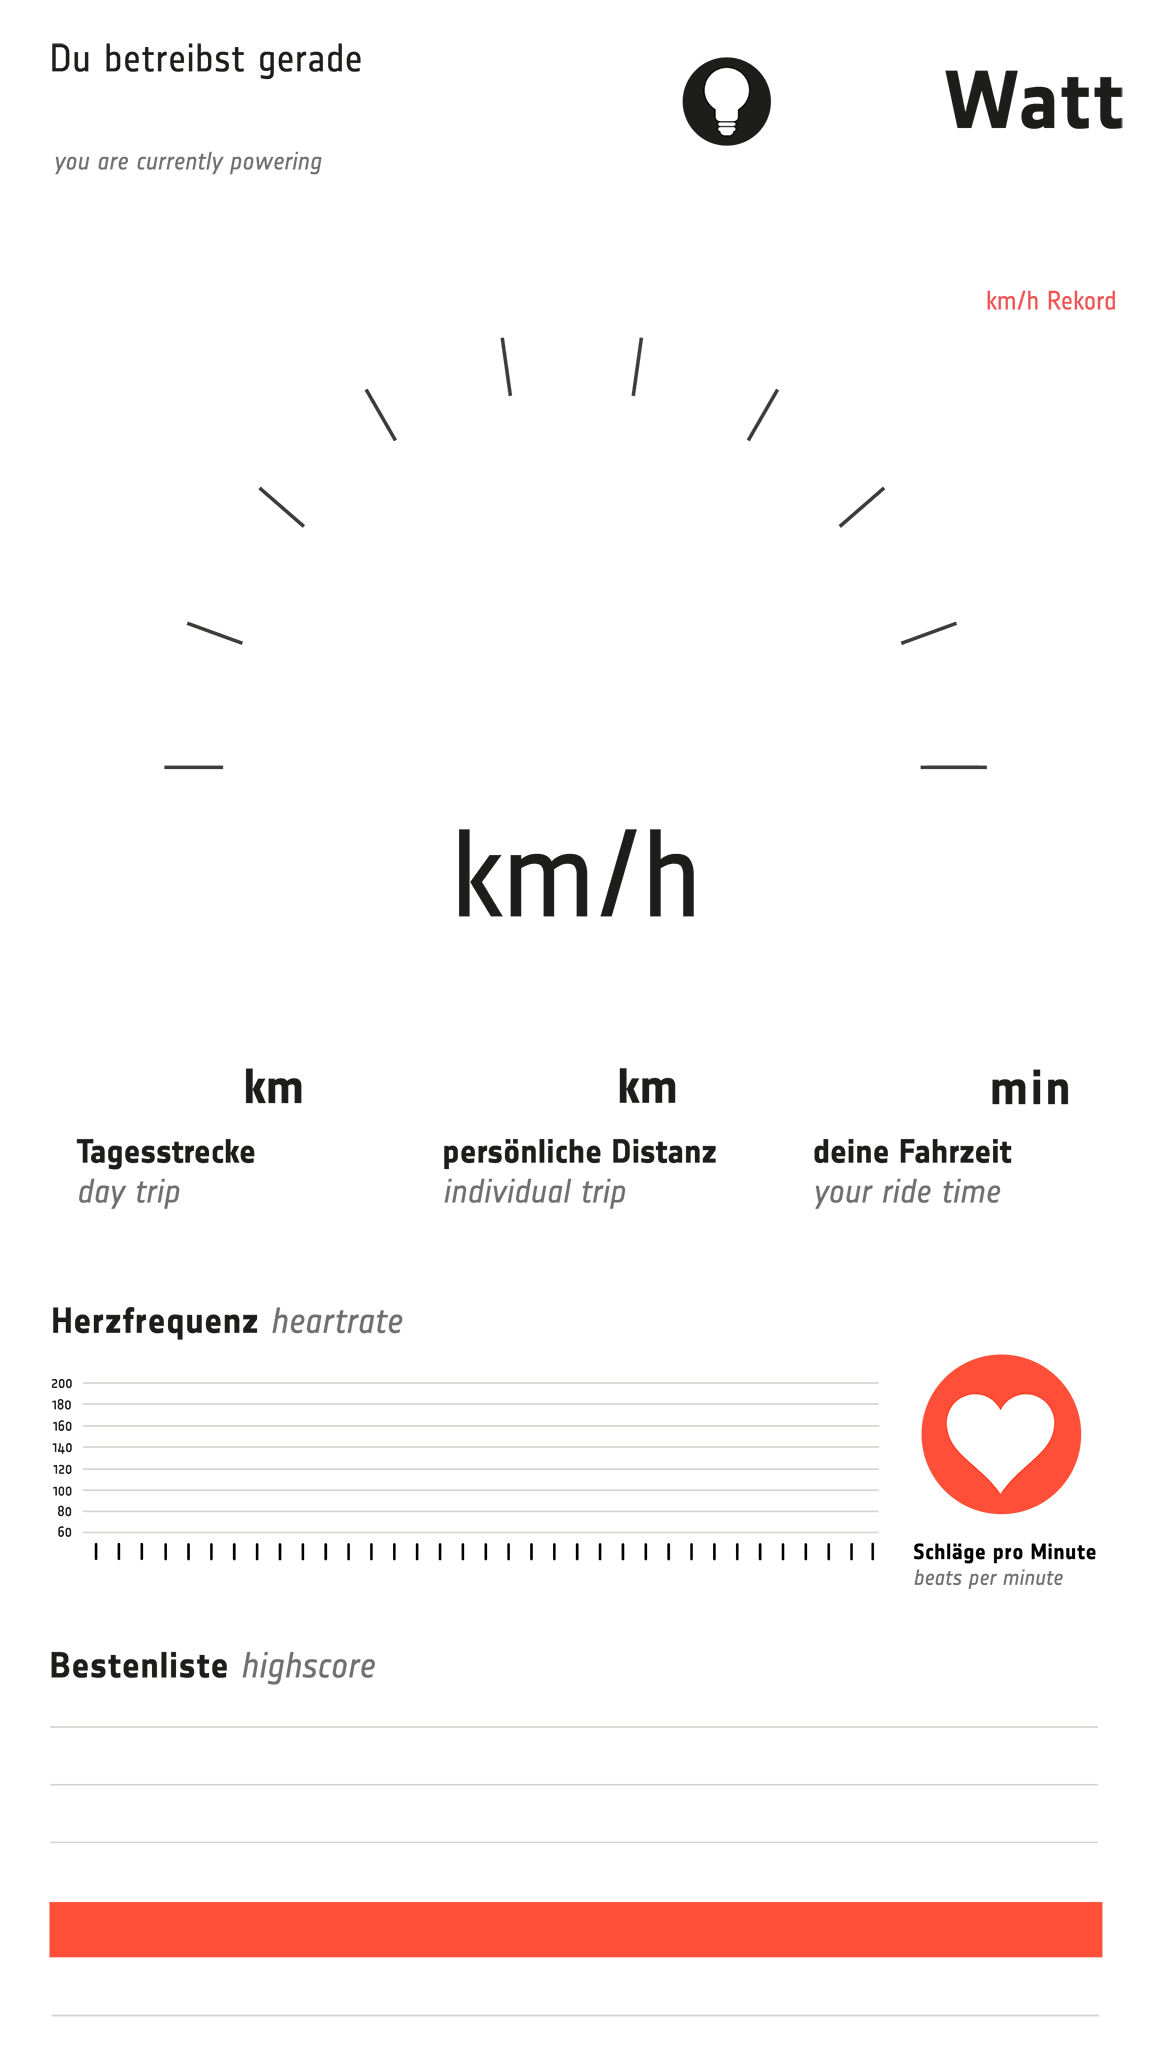
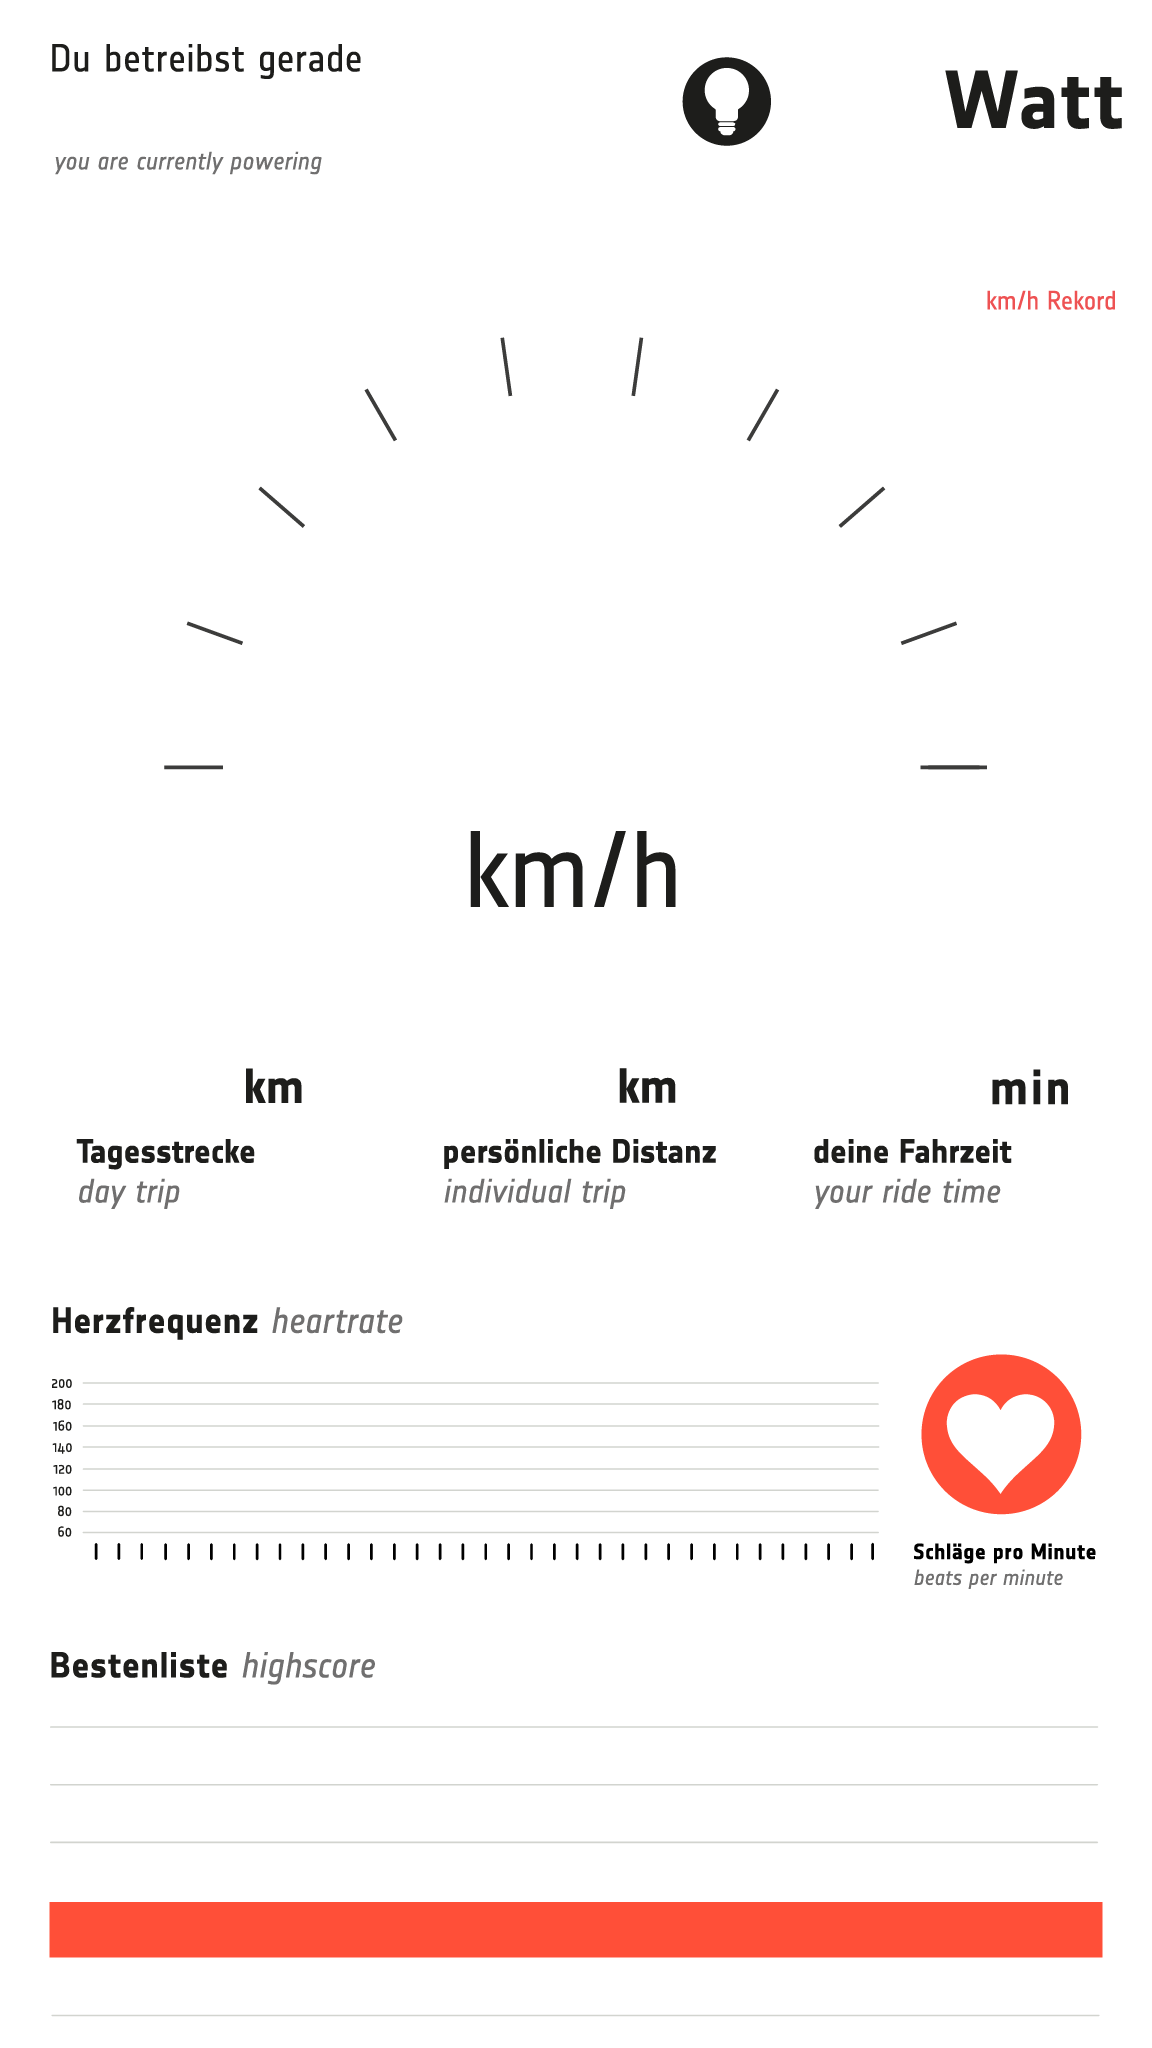
Adjusted layout for smaller Km/h font in png and code

Changed region(s): [[0.375, 0.4062, 0.625, 0.4688]]

diff --git a/src/ViewController.cpp b/src/ViewController.cpp
@@ -221,7 +221,7 @@ void ViewController::renderSender() {
 		fWattsCurrent.draw(watts, 871.709, 142.148, ofxTextAlign::HORIZONTAL_ALIGN_RIGHT | ofxTextAlign::VERTICAL_ALIGN_BOTTOM);
 
 		// draw speed - current and max
-		fSpeedCurrent.draw(speedCurrent, 537.281, 818.94, ofxTextAlign::HORIZONTAL_ALIGN_CENTER | ofxTextAlign::VERTICAL_ALIGN_BOTTOM);
+		fSpeedCurrent.draw(speedCurrent, 537.281, 758.004, ofxTextAlign::HORIZONTAL_ALIGN_CENTER | ofxTextAlign::VERTICAL_ALIGN_BOTTOM);
 		ofSetColor(238, 82, 83); // TODO: check this color!
 		fSpeedHigh.draw(speedHigh, 913.814, 307.874, ofxTextAlign::HORIZONTAL_ALIGN_RIGHT | ofxTextAlign::VERTICAL_ALIGN_BOTTOM);
 
@@ -358,6 +358,7 @@ void ViewController::renderReciever() {
 		ofMesh mesh;
 		mesh.setMode(OF_PRIMITIVE_TRIANGLE_STRIP);
 
+		// from https://stackoverflow.com/questions/14514543/opengl-es-2-0-dynamically-change-line-width
 		for (int j = 10; j < num; j++) {
 
 			int index1 = j - 1;
